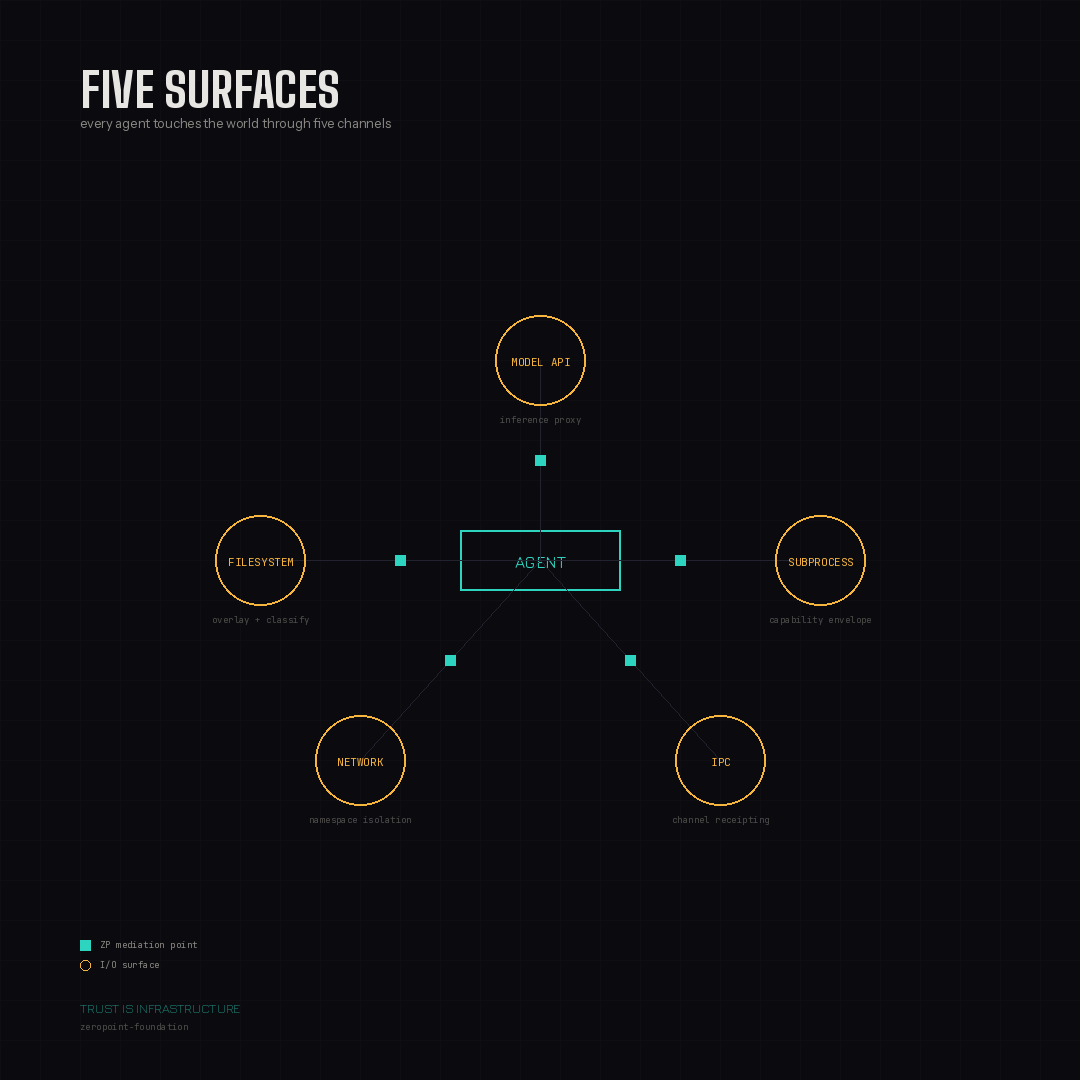
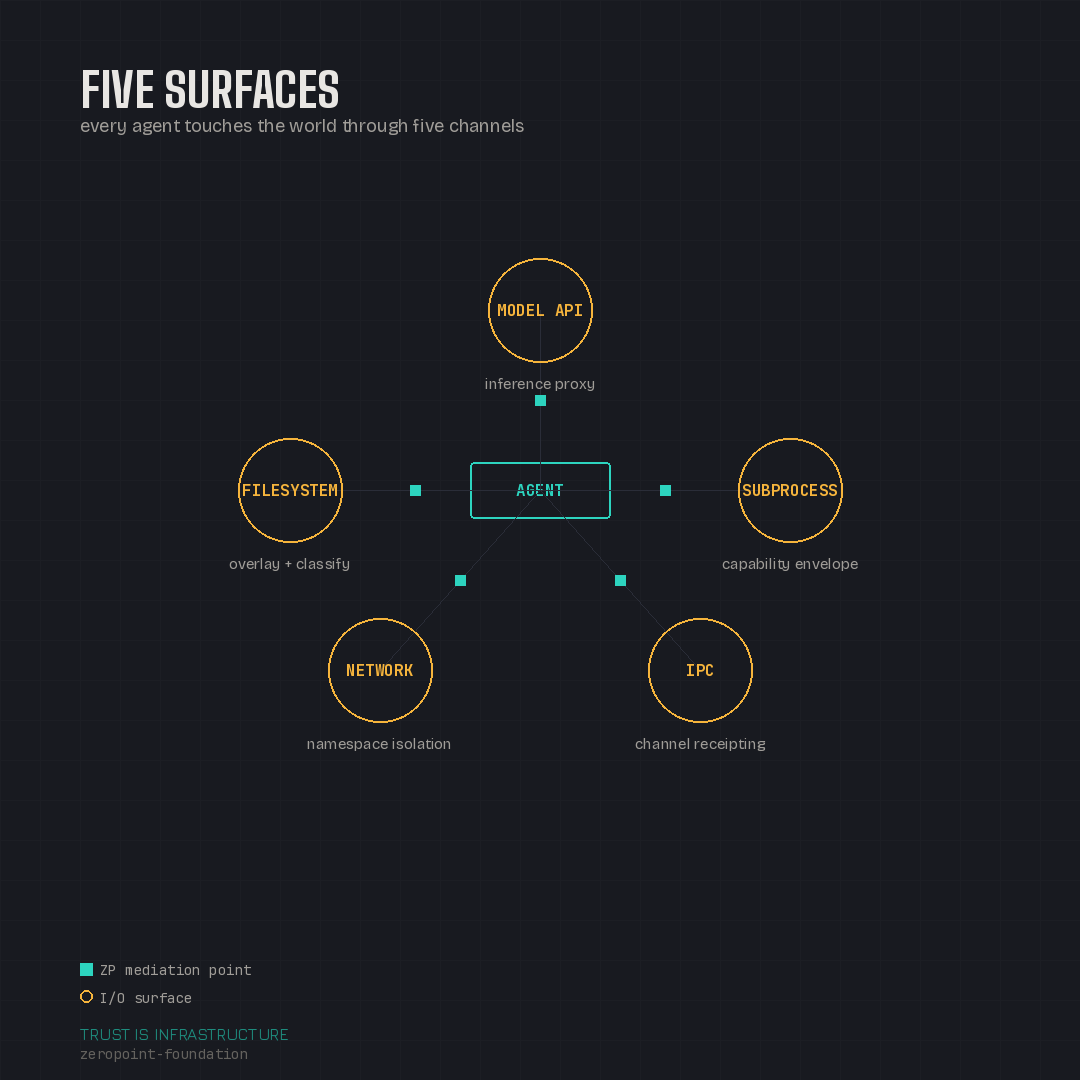
style: lighter backgrounds, improved legibility on card images

diff --git a/docs/posts/01-trust-is-infrastructure.html b/docs/posts/01-trust-is-infrastructure.html
@@ -13,9 +13,9 @@
   * { margin: 0; padding: 0; box-sizing: border-box; }
 
   :root {
-    --slate: #0a0a0f;
-    --slate-mid: #16161e;
-    --slate-light: #23232f;
+    --slate: #181a20;
+    --slate-mid: #1e2028;
+    --slate-light: #2a2d38;
     --teal: #2dd4bf;
     --teal-dim: #1e8c7e;
     --amber: #f5b43c;

diff --git a/docs/posts/index.html b/docs/posts/index.html
@@ -13,9 +13,9 @@
   * { margin: 0; padding: 0; box-sizing: border-box; }
 
   :root {
-    --slate: #0a0a0f;
-    --slate-mid: #16161e;
-    --slate-light: #23232f;
+    --slate: #181a20;
+    --slate-mid: #1e2028;
+    --slate-light: #2a2d38;
     --teal: #2dd4bf;
     --teal-dim: #1e8c7e;
     --amber: #f5b43c;
